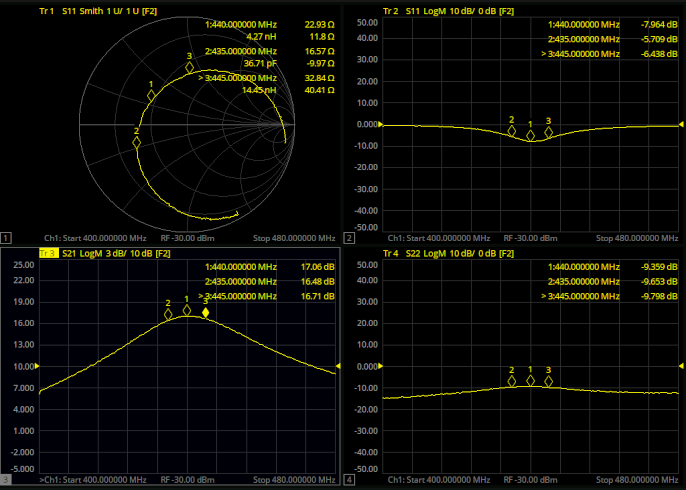
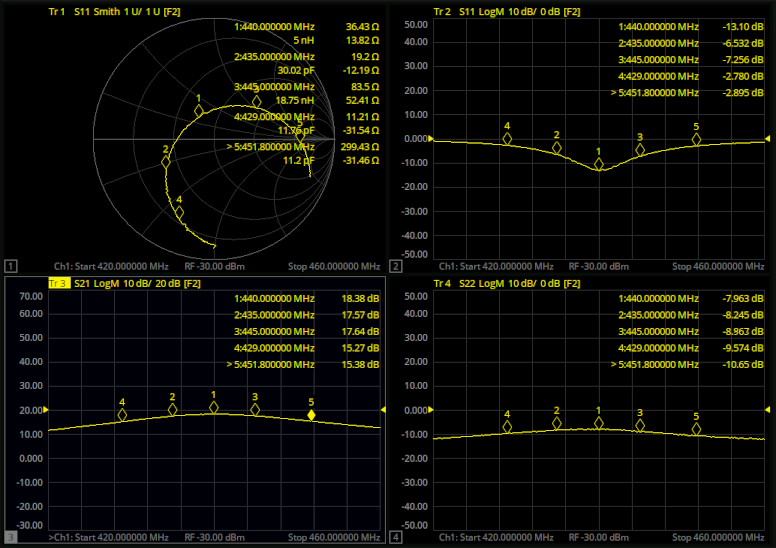
updated sweep

diff --git a/Amplifier/gaas_mesfet/README.md b/Amplifier/gaas_mesfet/README.md
@@ -22,14 +22,19 @@ FETs are voltage controlled devices with infinite input impedance at low fequenc
 
 ![gopt](gopt.png)
 
-The datasheet calls for an optimum source impedance at 450 MHz that corresponds to 115.9 + j207.9 Ω. This source impedance is quite high and would create a serious mismatch at the antenna input, so an L-match (C5, and an imaginary inductance that's absorbed into the L1 C4 tank) transforms the antenna impedance up to the desired optimum. The combination of C4 and C5 allows a wide range of input impedance to be set, including a perfect match. The exact impedance at the gate of the transistor however is still unknown (mainly due to the lack of proper simulation data of this particular vintage device).
+The datasheet calls for an optimum source impedance at 450 MHz that corresponds to 115.9 + j207.9 Ω. This source impedance is quite, so an L-match (C5, and an imaginary inductance that's absorbed into the L1 C4 tank) transforms the antenna impedance up to the desired optimum. The combination of C4 and C5 allows a wide range of input impedance to be set, including a perfect match.
 
-Since I don't have a noise meter, nor know the exact capacitance of the trimmers at each setting, I chose the strategy of trimming for the lowest input impedance while maintaining a somewhat acceptable reflection coefficient. This method ensures the highest impedance at the gate (for good noise figure), and also has the benefit of a resulting in a somewhat broader bandwidth, due to the gate impedance of the transistor (and also the Q of the inductor and trimmer cap) now affecting the overall Q of the LC tank.
+Since I don't have a noise meter, nor can deduce any information about the exact impedance at the transistor gate (the exact capacitance of the trimmers are unknonw at any particular setting, hence the impedance transformation ratio is also unknown), I chose an intuitive approach: I trim the variable capacitors for the highest gain and lowest input impedance while maintaining a somewhat acceptable reflection coefficient. This strategy ensures the highest impedance at the gate (for highest voltage -> good noise figure), and also has the benefit of a resulting in a somewhat broader bandwidth, due to the gate impedance of the transistor (and also the Q of the inductor and trimmer cap) now affecting the overall Q of the LC tank.
+
+S-parameters after tuning for 440 MHz, and low, but acceptable input imepdance:
 
 ![sparm](sparm.png)
 
-Gain is +17 dB at 440 MHz, OP1dB = +3.3 dBm, DC current is 15 mA (supply voltage range: 7V - 35V).
+Gain is +18.4 dB at 440 MHz, 3 dB bandwidth is 23 MHz (429-452 MHz), return loss is -13 dB at 440 MHz
+
+
+Power sweep at 440 MHz:
 
 ![pwrsweep](pwrsweep.png)
 
-
+OP1dB = +3 dBm, OP3dB = +6.45 dBm, DC current is 15 mA (supply voltage range: 7V - 35V).
